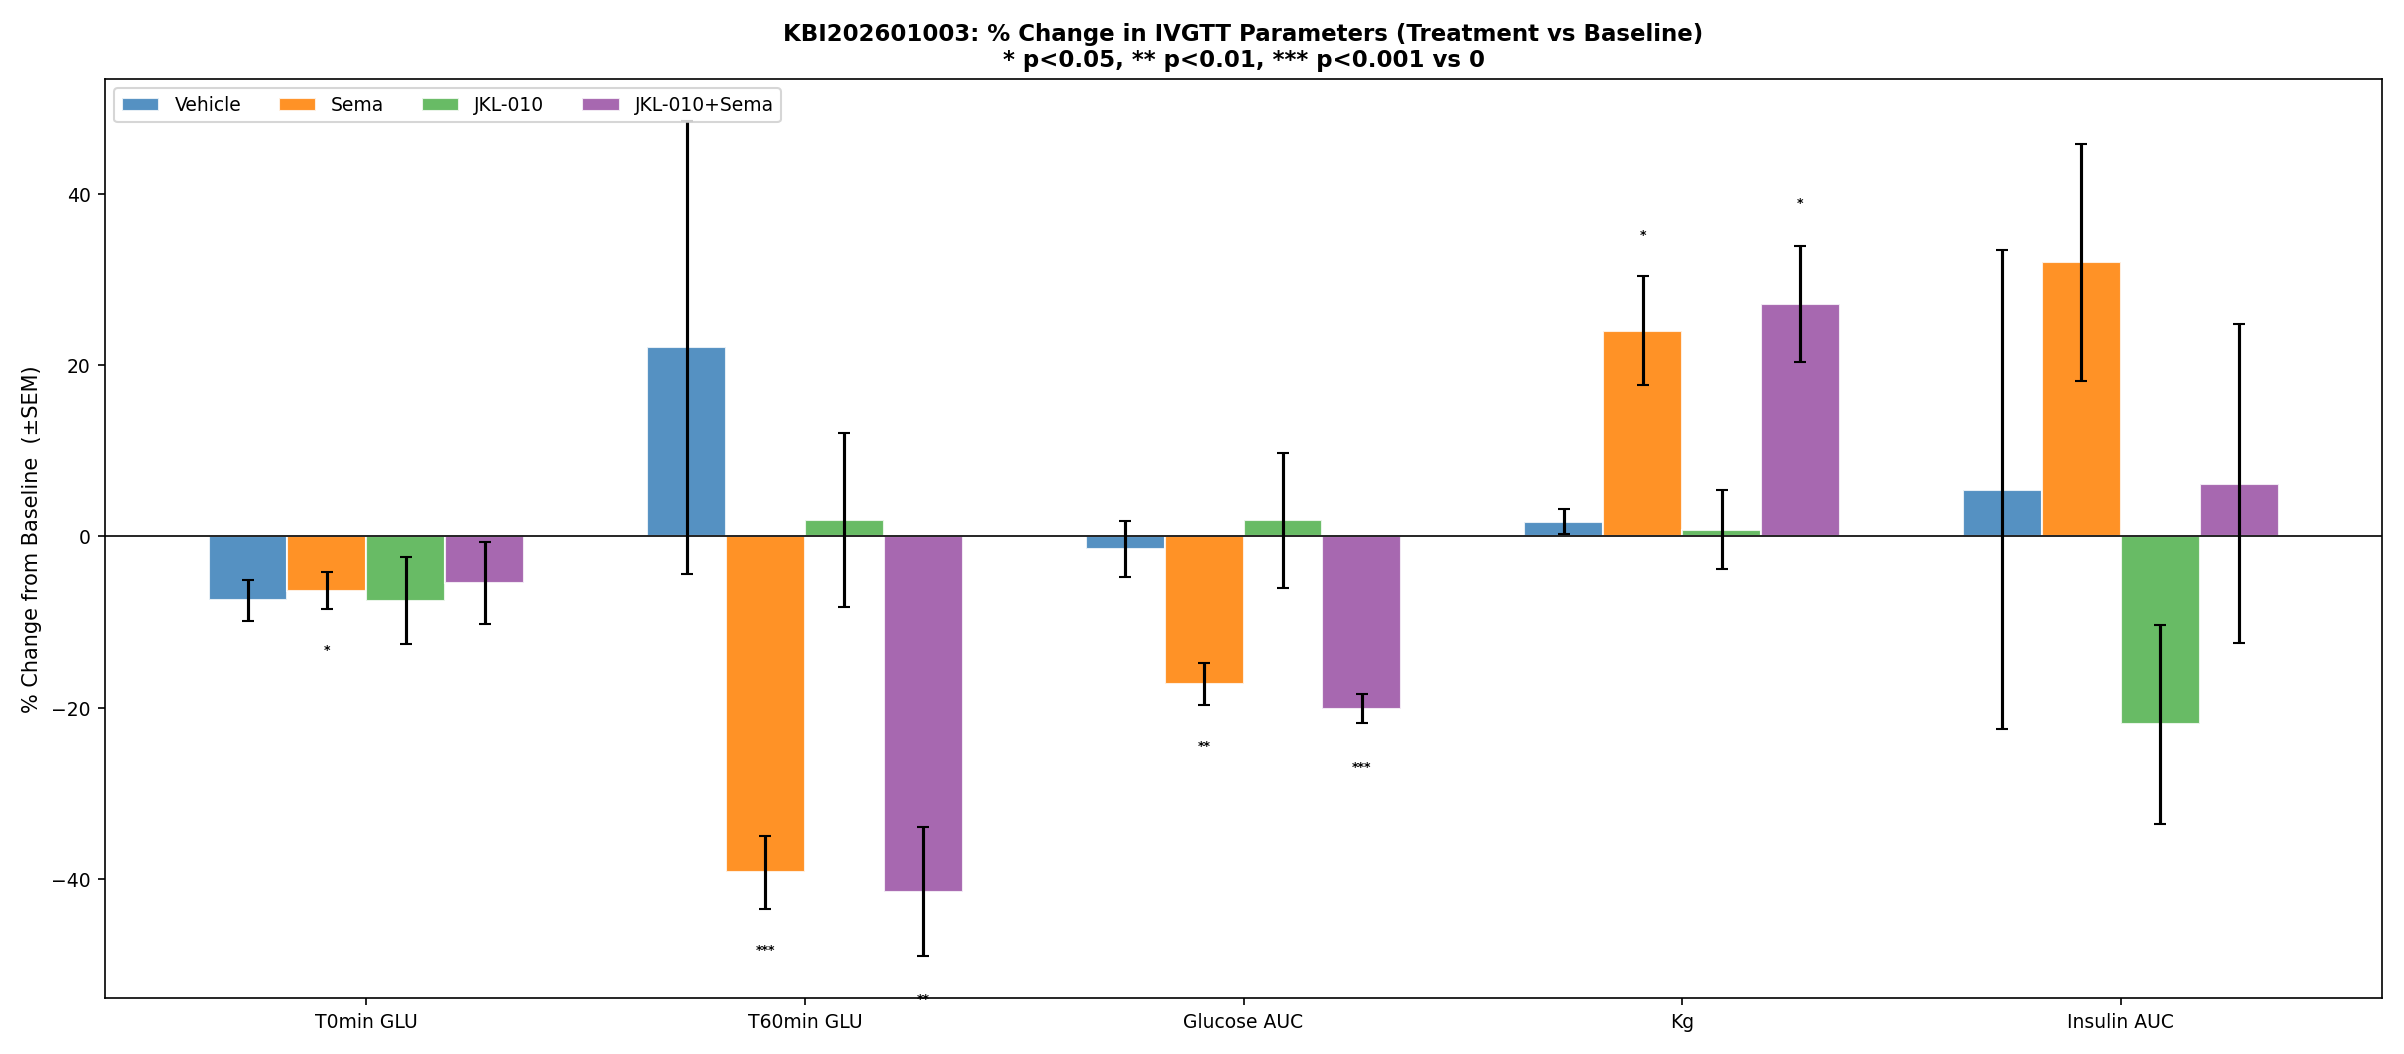
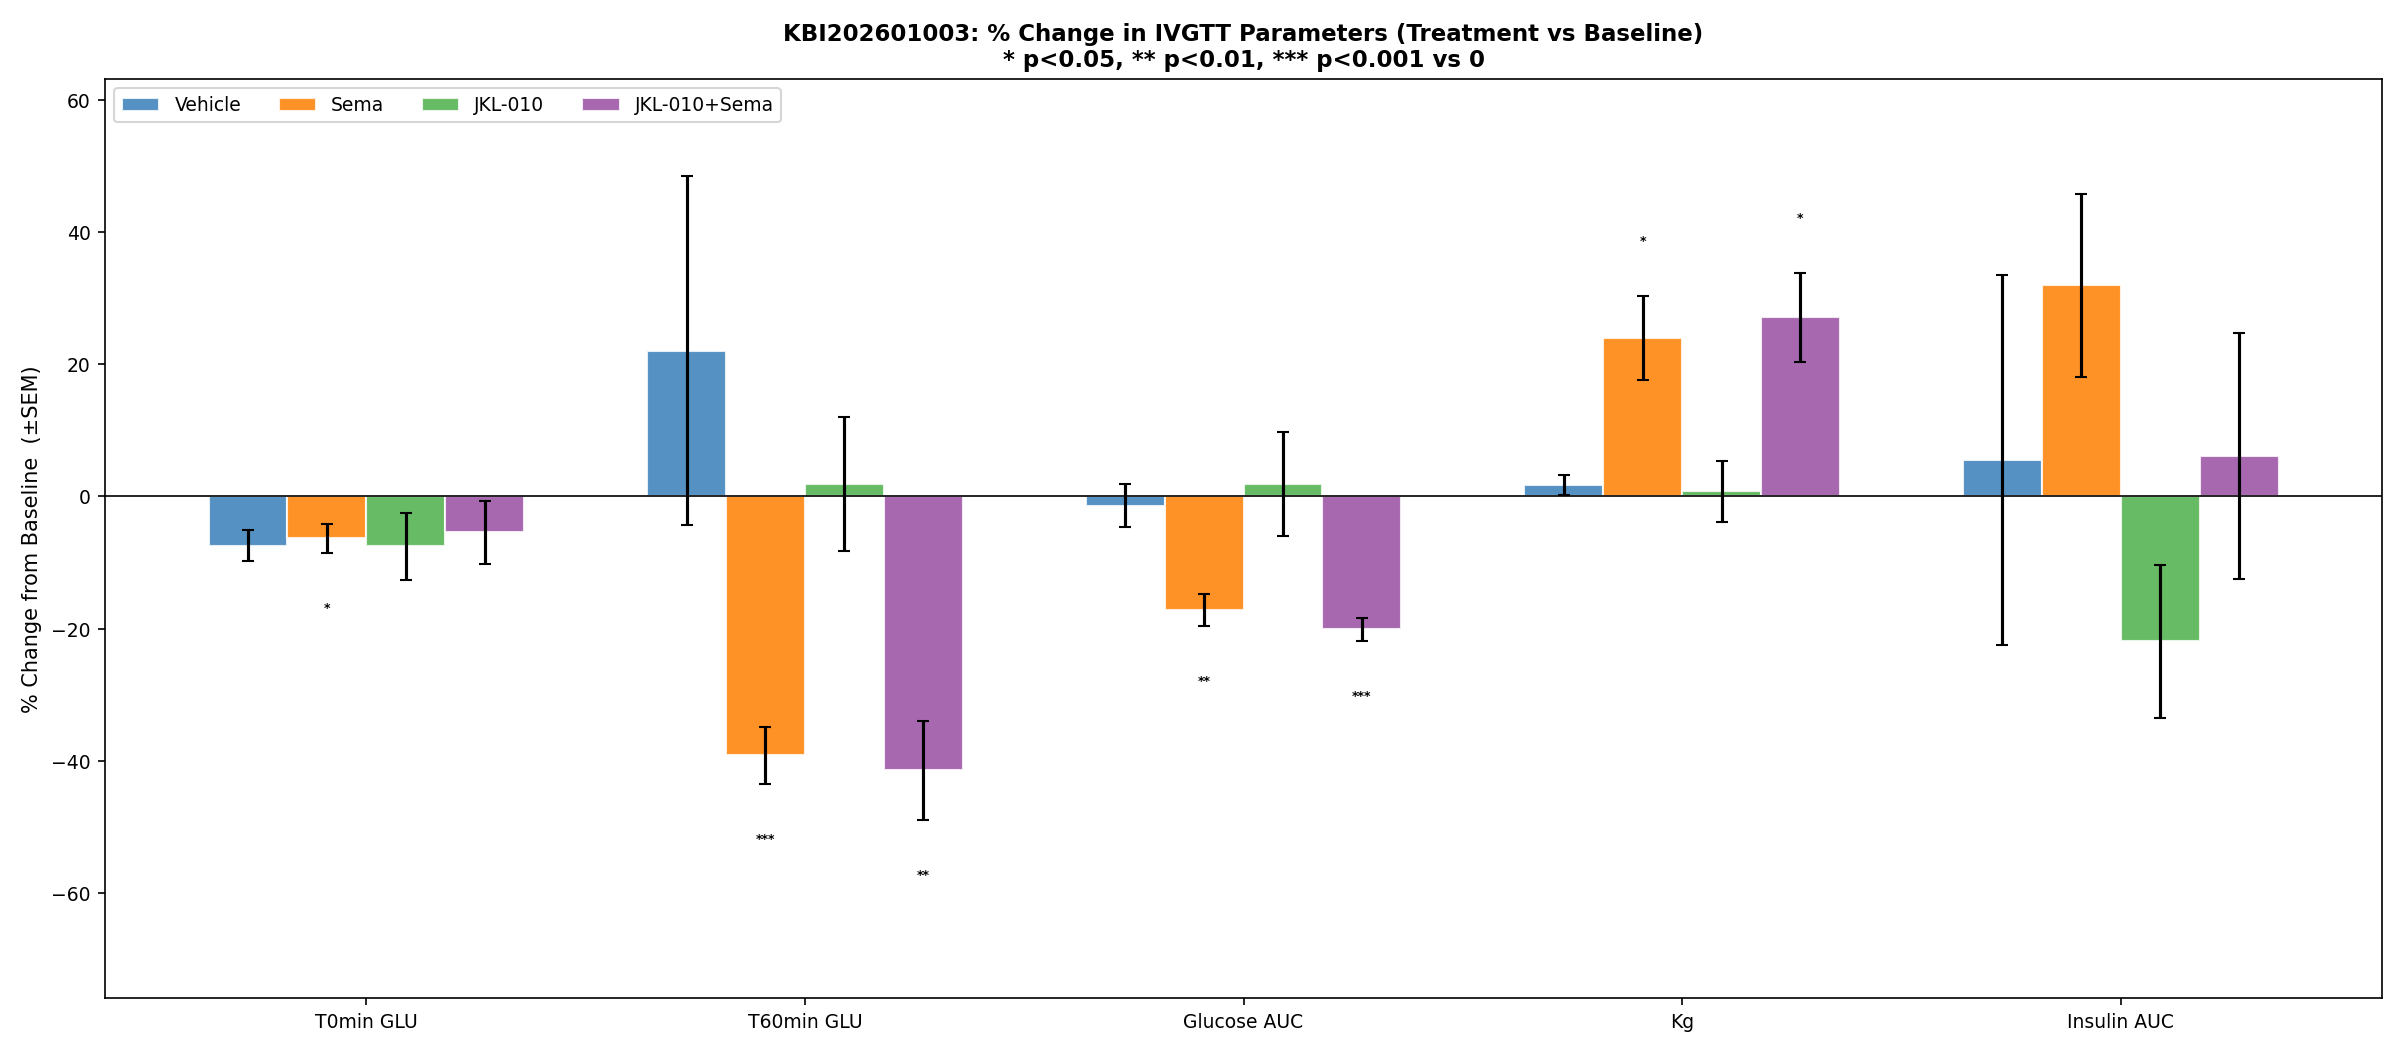
fix: Fig5 remove baseline-vs-treatment absolute bars, keep % change only; Fig6 auto ylim for significance stars
- Fig5: changed from 2×3 to 1×3 layout, removed absolute value bar charts, kept % change with vs-0 stars and added between-group (vs Vehicle) significance brackets
- Fig6: auto-adjust y-axis limits to prevent significance stars from overflowing chart bounds
- Added between-group % change statistics (unpaired t-test vs Vehicle)

diff --git a/ivgtt_analysis.py b/ivgtt_analysis.py
@@ -280,6 +280,15 @@ def compute_stats():
             t_stat, p_val = stats.ttest_1samp(pct_vals, 0)
             results[g][f"{pct_key}_1s"] = {"p": p_val, "label": f"{g} %Change {label}"}
 
+    # Between-group: % Change vs Vehicle % Change (unpaired t-test)
+    for g in ["Sema", "JKL-010", "JKL-010+Sema"]:
+        members = groups_data[g]["members"]
+        for pct_key in ["pct_t0", "pct_t60", "pct_glu_auc", "pct_kg", "pct_ins_auc"]:
+            veh_vals = [d[pct_key] for d in vehicle_members]
+            grp_vals = [d[pct_key] for d in members]
+            t_stat, p_val = stats.ttest_ind(grp_vals, veh_vals, equal_var=False)
+            results[g][f"{pct_key}_vv"] = {"p": p_val, "label": f"{g} vs Veh %Change {pct_key}"}
+
     return results
 
 
@@ -290,6 +299,11 @@ STAT_RESULTS = compute_stats()
 for g in GROUP_ORDER:
     for key in ["pct_t0", "pct_t60", "pct_glu_auc", "pct_kg", "pct_ins_auc"]:
         groups_data[g][f"{key}_pval"] = STAT_RESULTS[g][f"{key}_1s"]["p"]
+
+# Inject between-group % change p-values into groups_data
+for g in ["Sema", "JKL-010", "JKL-010+Sema"]:
+    for key in ["pct_t0", "pct_t60", "pct_glu_auc", "pct_kg", "pct_ins_auc"]:
+        groups_data[g][f"{key}_pval_vv"] = STAT_RESULTS[g][f"{key}_vv"]["p"]
 
 # ── Figure 1: Glucose time curves (4 panels: Baseline + Treatment per group) ──
 def plot_glucose_curves():
@@ -433,98 +447,87 @@ def plot_insulin_overlay():
 
 # ── Figure 5: AUC & Kg bar charts with significance ───────────────────────
 def plot_auc_kg_bars():
-    fig, axes = plt.subplots(2, 3, figsize=(18, 10))
-    metrics = [
-        ("glu_auc", "Glucose AUC (mg/dL·min)"),
-        ("ins_auc", "Insulin AUC (μU/mL·min)"),
-        ("kg", "Kg (glucose clearance rate)"),
-    ]
-    bar_width = 0.30
+    fig, axes = plt.subplots(1, 3, figsize=(16, 5.5))
+    metric_labels = {
+        "glu_auc": "Glucose AUC",
+        "ins_auc": "Insulin AUC",
+        "kg": "Kg",
+    }
+    metric_keys = ["glu_auc", "ins_auc", "kg"]
+    bar_width = 0.45
     x = np.arange(len(GROUP_ORDER))
 
-    for col, (key, ylabel) in enumerate(metrics):
-        ax1 = axes[0, col]
-        ax2 = axes[1, col]
-
-        base_key = f"{key}_base"
-        treat_key = f"{key}_treat"
-
-        base_means = np.array([groups_data[g][base_key]["mean"] for g in GROUP_ORDER])
-        base_sems = np.array([groups_data[g][base_key]["sem"] for g in GROUP_ORDER])
-        treat_means = np.array([groups_data[g][treat_key]["mean"] for g in GROUP_ORDER])
-        treat_sems = np.array([groups_data[g][treat_key]["sem"] for g in GROUP_ORDER])
-
-        colors_base = [GROUP_COLORS[g] for g in GROUP_ORDER]
-
-        # ─── Absolute values (row 0) ───
-        bars1 = ax1.bar(x - bar_width/2, base_means, bar_width,
-                        yerr=base_sems, capsize=4, color=BASELINE_COLOR,
-                        alpha=0.8, label="Baseline", edgecolor="white")
-        bars2 = ax1.bar(x + bar_width/2, treat_means, bar_width,
-                        yerr=treat_sems, capsize=4, color=TREATMENT_COLOR,
-                        alpha=0.8, label="Treatment", edgecolor="white")
-
-        # Significance: Baseline vs Treatment (within-group)
-        max_vals = np.maximum(base_means + base_sems, treat_means + treat_sems)
-        y_range = ax1.get_ylim()[1] - ax1.get_ylim()[0]
-        h_step = y_range * 0.06
-        y_offset = max_vals + (y_range * 0.03)
-
-        for i, g in enumerate(GROUP_ORDER):
-            p_val = STAT_RESULTS[g][f"{key}_bt"]["p"]
-            stars = pvalue_stars(p_val)
-            if stars == "ns":
-                continue
-            bracket_y = y_offset[i] + h_step
-            ax1.plot([x[i] - bar_width/2, x[i] - bar_width/2,
-                      x[i] + bar_width/2, x[i] + bar_width/2],
-                     [bracket_y, bracket_y + h_step * 0.4,
-                      bracket_y + h_step * 0.4, bracket_y],
-                     lw=1.0, color="black", clip_on=False)
-            ax1.text(x[i], bracket_y + h_step * 0.5, stars,
-                     ha="center", va="bottom", fontsize=8, fontweight="bold")
-
-        # Align y-axis max after annotation
-        ax1.set_xticks(x)
-        ax1.set_xticklabels(GROUP_ORDER, fontsize=8)
-        ax1.set_ylabel(ylabel)
-        ax1.set_title(f"{ylabel} — Absolute Values  (* B vs T)", fontsize=10)
-        ax1.legend(fontsize=7, loc="upper left")
-
-        # ─── % Change (row 1) ───
+    for col, key in enumerate(metric_keys):
+        ax = axes[col]
         pct_key = f"pct_{key}"
         pct_means = np.array([groups_data[g][pct_key]["mean"] for g in GROUP_ORDER])
         pct_sems = np.array([groups_data[g][pct_key]["sem"] for g in GROUP_ORDER])
 
         bar_colors = [GROUP_COLORS[g] for g in GROUP_ORDER]
-        bars3 = ax2.bar(x, pct_means, bar_width * 2, yerr=pct_sems, capsize=4,
-                        color=bar_colors, alpha=0.85, edgecolor="white")
-        ax2.axhline(y=0, color="black", linewidth=0.8)
+        ax.bar(x, pct_means, bar_width, yerr=pct_sems, capsize=6,
+               color=bar_colors, alpha=0.85, edgecolor="white", linewidth=0.8)
+        ax.axhline(y=0, color="black", linewidth=0.8)
 
-        # Significance: % Change vs 0 (one-sample t-test)
-        y_range2 = max(abs(np.min(pct_means - pct_sems)),
-                       abs(np.max(pct_means + pct_sems)))
-        h_step2 = y_range2 * 0.06
+        data_max = np.max(pct_means + pct_sems)
+        data_min = np.min(pct_means - pct_sems)
+        y_span = max(abs(data_max), abs(data_min)) * 2 + 0.01
+        y_buffer = y_span * 0.06
+        tracked_max = data_max
+        tracked_min = data_min
 
+        # Vs-0 significance stars
         for i, g in enumerate(GROUP_ORDER):
-            p_val = STAT_RESULTS[g][f"{pct_key}_1s"]["p"]
+            p_val = groups_data[g][f"{pct_key}_pval"]
             stars = pvalue_stars(p_val)
             if stars == "ns":
                 continue
-            sign_val = 1 if pct_means[i] > 0 else -1
-            y_pos = pct_means[i] + sign_val * (pct_sems[i] + h_step2 * 2)
-            ax2.text(x[i], y_pos + sign_val * h_step2, stars,
-                     ha="center", va="bottom" if sign_val > 0 else "top",
-                     fontsize=8, fontweight="bold")
+            sign = 1 if pct_means[i] > 0 else -1
+            y_pos = pct_means[i] + sign * (pct_sems[i] + y_buffer * 1.5)
+            ax.text(x[i], y_pos, stars, ha="center",
+                    va="bottom" if sign > 0 else "top",
+                    fontsize=8, fontweight="bold")
+            if y_pos > 0:
+                tracked_max = max(tracked_max, y_pos + y_buffer)
+            else:
+                tracked_min = min(tracked_min, y_pos - y_buffer)
 
-        ax2.set_xticks(x)
-        ax2.set_xticklabels(GROUP_ORDER, fontsize=8)
-        ax2.set_ylabel("% Change from Baseline  (±SEM)")
-        ax2.set_title(f"{ylabel} — % Change  (* vs 0)", fontsize=10)
+        # Between-group significance brackets (vs Vehicle on % change)
+        bracket_level = 0
+        for i, g in enumerate(GROUP_ORDER):
+            if g == "Vehicle":
+                continue
+            p_val = groups_data[g].get(f"{pct_key}_pval_vv", 1.0)
+            stars = pvalue_stars(p_val)
+            if stars == "ns":
+                continue
+            top_y = max(pct_means[0] + pct_sems[0],
+                       pct_means[i] + pct_sems[i])
+            h = y_buffer * (4 + bracket_level * 1.8)
+            bracket_y = top_y + h
+            ax.plot([x[0], x[0], x[i], x[i]],
+                    [bracket_y, bracket_y + y_buffer * 0.3,
+                     bracket_y + y_buffer * 0.3, bracket_y],
+                    lw=1.0, color="gray", clip_on=False)
+            ax.text((x[0] + x[i]) / 2, bracket_y + y_buffer * 0.35,
+                    stars, ha="center", va="bottom",
+                    fontsize=7, fontweight="bold", color="gray")
+            tracked_max = max(tracked_max, bracket_y + y_buffer * 0.8)
+            bracket_level += 1
 
-    fig.suptitle(f"{STUDY_ID}: IVGTT AUC and Kg — Baseline vs Treatment\nSignificance: * p<0.05, ** p<0.01, *** p<0.001",
-                 fontsize=12, fontweight="bold")
-    fig.tight_layout(rect=[0, 0, 1, 0.96])
+        # Auto-adjust ylim to include all annotations
+        margin = y_span * 0.12
+        ax.set_ylim(tracked_min - margin, tracked_max + margin)
+
+        ax.set_xticks(x)
+        ax.set_xticklabels(GROUP_ORDER, fontsize=8)
+        ax.set_ylabel(f"{metric_labels[key]} % Change from Baseline  (±SEM)")
+        ax.set_title(f"{metric_labels[key]} — % Change", fontsize=10)
+
+    fig.suptitle(
+        f"{STUDY_ID}: IVGTT AUC and Kg — % Change from Baseline\n"
+        "* p<0.05, ** p<0.01, *** p<0.001 vs 0 (black) | vs Vehicle (gray brackets)",
+        fontsize=11, fontweight="bold")
+    fig.tight_layout(rect=[0, 0.02, 1, 0.91])
     save_fig(fig, "fig5_auc_kg_bars.png")
 
 # ── Figure 6: % Change summary with significance ───────────────────────────
@@ -535,6 +538,9 @@ def plot_pct_change():
     bar_width = 0.18
     x = np.arange(len(pct_metrics))
 
+    tracked_max = 0
+    tracked_min = 0
+
     for i, g in enumerate(GROUP_ORDER):
         means = [groups_data[g][m]["mean"] for m in pct_metrics]
         sems = [groups_data[g][m]["sem"] for m in pct_metrics]
@@ -542,7 +548,20 @@ def plot_pct_change():
         ax.bar(x + offset, means, bar_width, yerr=sems, capsize=3,
                color=GROUP_COLORS[g], alpha=0.85, label=g, edgecolor="white")
 
-        # Significance vs 0 for each bar
+        for j, m in enumerate(pct_metrics):
+            val = means[j]
+            tracked_max = max(tracked_max, val + sems[j])
+            tracked_min = min(tracked_min, val - sems[j])
+
+    # Now place stars, tracking extremes
+    y_span = max(abs(tracked_max), abs(tracked_min)) * 2 + 0.01
+    y_buffer = y_span * 0.05
+
+    for i, g in enumerate(GROUP_ORDER):
+        means = [groups_data[g][m]["mean"] for m in pct_metrics]
+        sems = [groups_data[g][m]["sem"] for m in pct_metrics]
+        offset = (i - 1.5) * bar_width
+
         for j, m in enumerate(pct_metrics):
             p_val = groups_data[g][f"{m}_pval"]
             stars = pvalue_stars(p_val)
@@ -551,16 +570,25 @@ def plot_pct_change():
             x_pos = x[j] + offset
             val = means[j]
             sem = sems[j]
-            y_range = ax.get_ylim()[1] - ax.get_ylim()[0]
             sign = 1 if val > 0 else -1
-            y_pos = val + sign * (sem + y_range * 0.04)
-            ax.text(x_pos, y_pos, stars, ha="center", va="bottom" if sign > 0 else "top",
+            y_pos = val + sign * (sem + y_buffer * 1.5)
+            ax.text(x_pos, y_pos, stars, ha="center",
+                    va="bottom" if sign > 0 else "top",
                     fontsize=6, fontweight="bold")
+            if y_pos > 0:
+                tracked_max = max(tracked_max, y_pos + y_buffer)
+            else:
+                tracked_min = min(tracked_min, y_pos - y_buffer)
 
     ax.axhline(y=0, color="black", linewidth=0.8)
     ax.set_xticks(x)
     ax.set_xticklabels(pct_labels, fontsize=9)
     ax.set_ylabel("% Change from Baseline  (±SEM)")
+
+    # Auto-adjust ylim so stars stay inside
+    margin = y_span * 0.15
+    ax.set_ylim(tracked_min - margin, tracked_max + margin)
+
     ax.set_title(f"{STUDY_ID}: % Change in IVGTT Parameters (Treatment vs Baseline)\n* p<0.05, ** p<0.01, *** p<0.001 vs 0",
                  fontweight="bold", fontsize=11)
     ax.legend(fontsize=9, ncol=4, loc="upper left")
@@ -781,7 +809,7 @@ def generate_report():
         "fig2_insulin_curves.png — Insulin time curves (baseline & treatment per group)",
         "fig3_glucose_overlay.png — Baseline vs Treatment glucose overlay",
         "fig4_insulin_overlay.png — Baseline vs Treatment insulin overlay",
-        "fig5_auc_kg_bars.png — AUC and Kg bar charts with B vs T significance",
+        "fig5_auc_kg_bars.png — AUC and Kg % change bar charts with vs-0 & between-group significance",
         "fig6_pct_change.png — % Change summary with vs-0 significance",
         "fig7_spaghetti_glucose.png — Individual glucose curves per group",
         "fig8_spaghetti_insulin.png — Individual insulin curves per group",

diff --git a/IVGTT_Report.md b/IVGTT_Report.md
@@ -91,7 +91,7 @@
 - fig2_insulin_curves.png — Insulin time curves (baseline & treatment per group)
 - fig3_glucose_overlay.png — Baseline vs Treatment glucose overlay
 - fig4_insulin_overlay.png — Baseline vs Treatment insulin overlay
-- fig5_auc_kg_bars.png — AUC and Kg bar charts with B vs T significance
+- fig5_auc_kg_bars.png — AUC and Kg % change bar charts with vs-0 & between-group significance
 - fig6_pct_change.png — % Change summary with vs-0 significance
 - fig7_spaghetti_glucose.png — Individual glucose curves per group
 - fig8_spaghetti_insulin.png — Individual insulin curves per group
